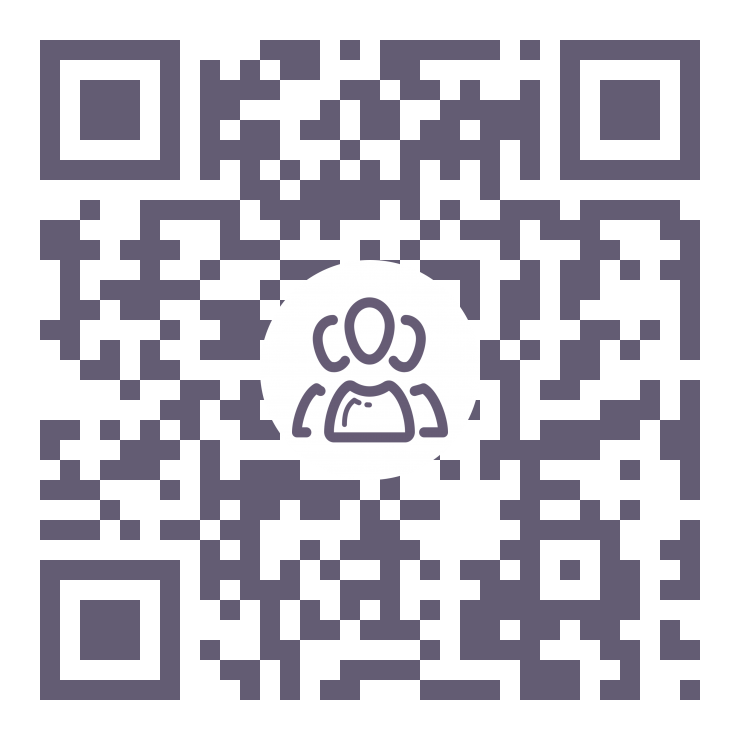
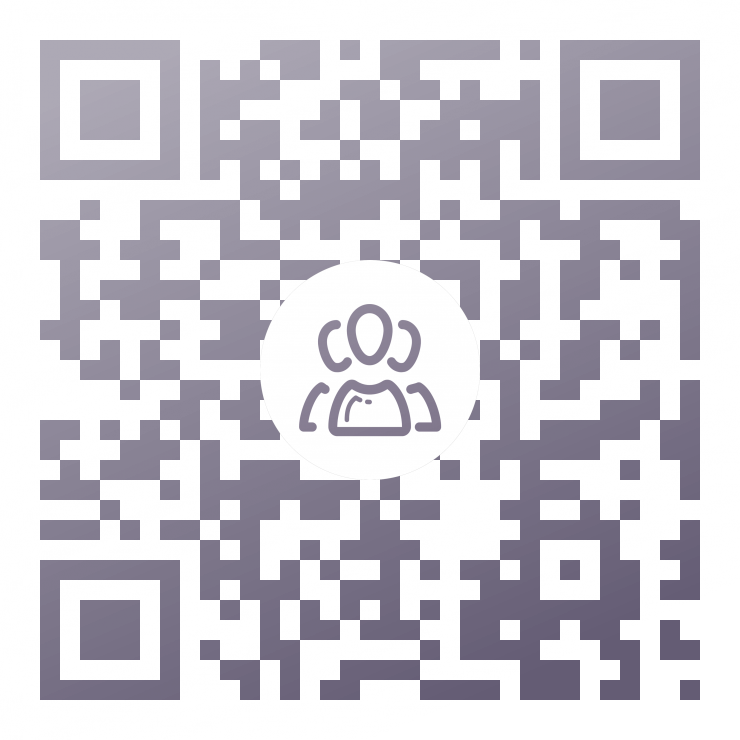
update qrcode, vcard and add new images

Changed region(s): [[0.0311, 0.0311, 0.9635, 0.8703]]

diff --git a/src/lib/Lead4CRM/API.php b/src/lib/Lead4CRM/API.php
@@ -1414,9 +1414,8 @@ class API
         $vcard.= "FN:Lead4CRM («Генератор лидов»)\n";
         $vcard.= "ORG:Lead4CRM («Генератор лидов»)\n";
         $vcard.= "NOTE:Базы 2ГИС в формате любимой CRM\n";
-        $vcard.= "TEL;TYPE=work:+7 (499) 704-69-17\n";
+        $vcard.= "TEL;TYPE=work:+7 (3952) 96-96-17\n";
         $vcard.= "TEL;TYPE=cell:+7 (914) 926-96-17\n";
-        $vcard.= "TEL;TYPE=cell:+7 (904) 132-60-00\n";
         $vcard.= "EMAIL;TYPE=internet:support@lead4crm.ru\n";
         $vcard.= "EMAIL;TYPE=internet,pref:help@lead4crm.ru\n";
         $vcard.= "EMAIL;TYPE=internet:news@lead4crm.ru\n";
